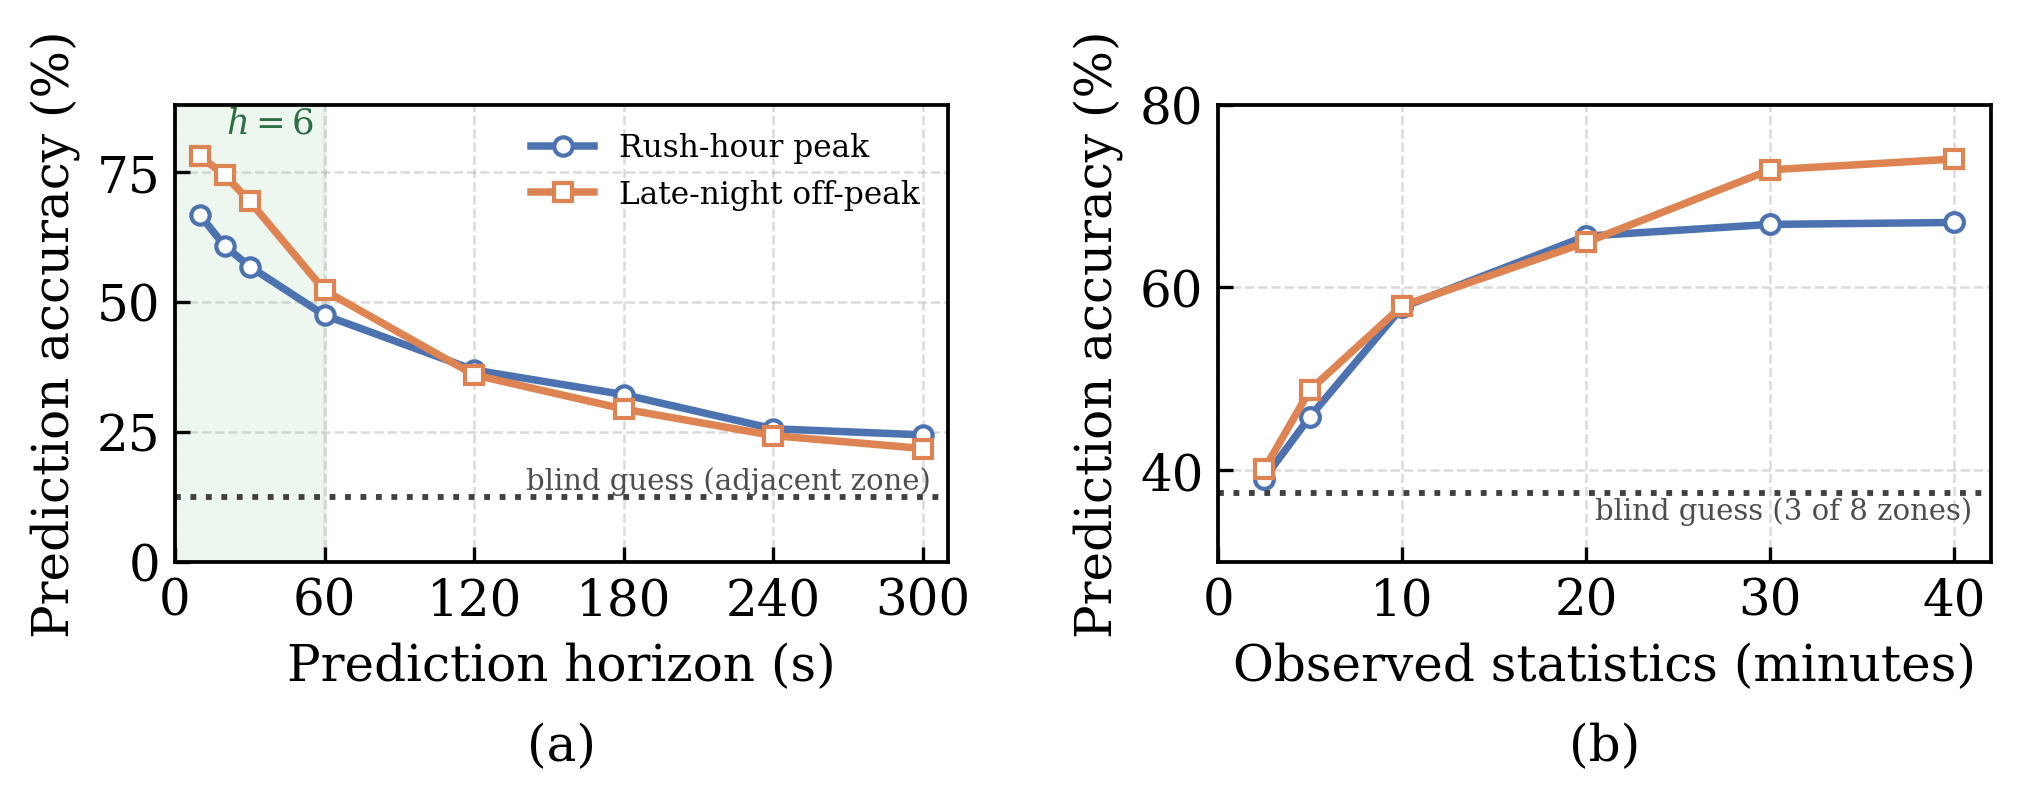
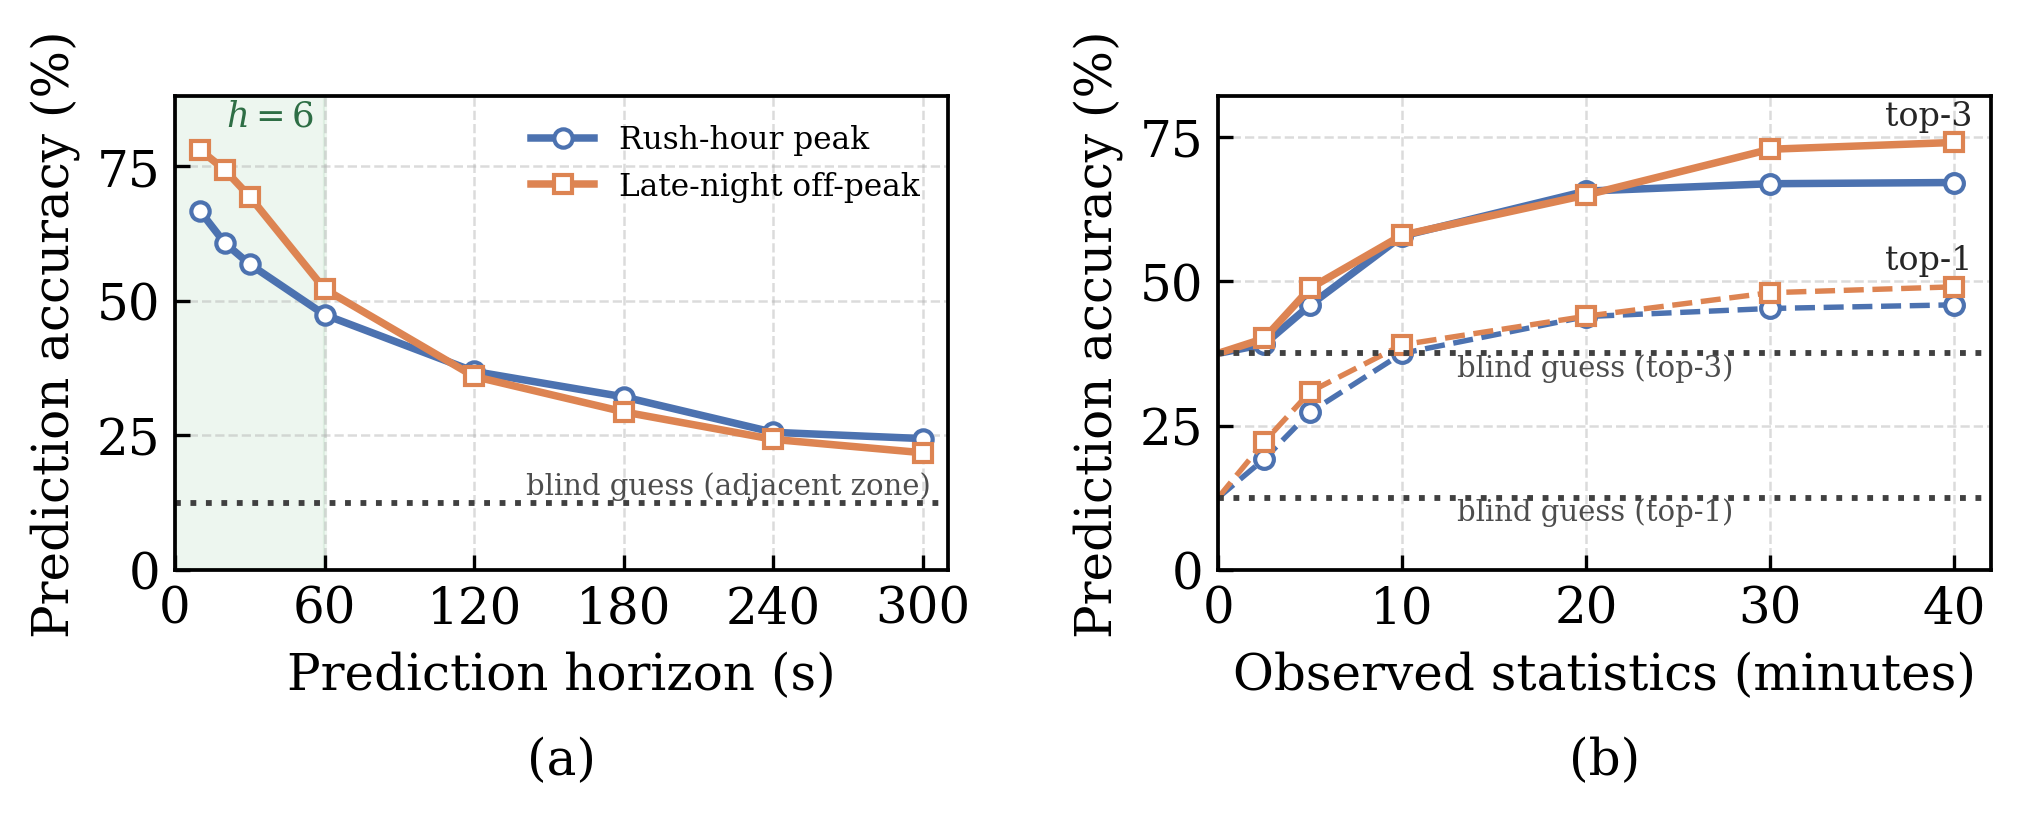
fig_zone_pred (b): add top-1 curves and prior anchors
Panel (b) now shows top-3 (solid) and top-1 (dashed) learning curves,
both starting from the adjacency-prior (blind) level at zero history,
with per-metric blind reference lines.

diff --git a/newnewdata/fig_zone_pred.py b/newnewdata/fig_zone_pred.py
@@ -73,16 +73,25 @@ ax.text(0.5, -0.35, "(a)", transform=ax.transAxes, ha="center",
 # --- (b) contact probability as the statistics accumulate ---
 ax = axs[1]
 mins = np.array(LS) / 6.0
-ax.plot(mins, lcol(WINS[0], "top3"), color=C_PK, marker="o",
-        markersize=4.5, markerfacecolor="white")
-ax.plot(mins, lcol(WINS[1], "top3"), color=C_NG, marker="s",
-        markersize=4.2, markerfacecolor="white")
+# curves start at the adjacency-prior (blind) level with zero history
+for win, c, mk, ms in ((WINS[0], C_PK, "o", 4.5), (WINS[1], C_NG, "s", 4.2)):
+    for key, base, ls in (("top3", 37.5, "-"), ("top1", 12.5, "--")):
+        y = lcol(win, key)
+        ax.plot(np.r_[0, mins], np.r_[base, y], color=c, ls=ls,
+                lw=1.8 if ls == "-" else 1.3)
+        ax.plot(mins, y, color=c, ls="none", marker=mk, markersize=ms,
+                markerfacecolor="white")
 ax.axhline(37.5, color="0.25", ls=":", lw=1.4)
-ax.text(41.0, 34.6, "blind guess (3 of 8 zones)", ha="right", fontsize=7,
+ax.axhline(12.5, color="0.25", ls=":", lw=1.4)
+ax.text(20.5, 33.6, "blind guess (top-3)", ha="center", fontsize=7,
         color="0.3")
+ax.text(20.5, 8.6, "blind guess (top-1)", ha="center", fontsize=7,
+        color="0.3")
+ax.text(41.0, 77.0, "top-3", ha="right", fontsize=8, color="0.15")
+ax.text(41.0, 52.0, "top-1", ha="right", fontsize=8, color="0.15")
 ax.set_xlabel("Observed statistics (minutes)")
 ax.set_ylabel("Prediction accuracy (%)")
-ax.set_xlim(0, 42); ax.set_ylim(30, 80)
+ax.set_xlim(0, 42); ax.set_ylim(0, 82)
 ax.grid(True, ls="--", lw=0.6, alpha=0.45)
 ax.text(0.5, -0.35, "(b)", transform=ax.transAxes, ha="center",
         va="top", fontsize=12)
